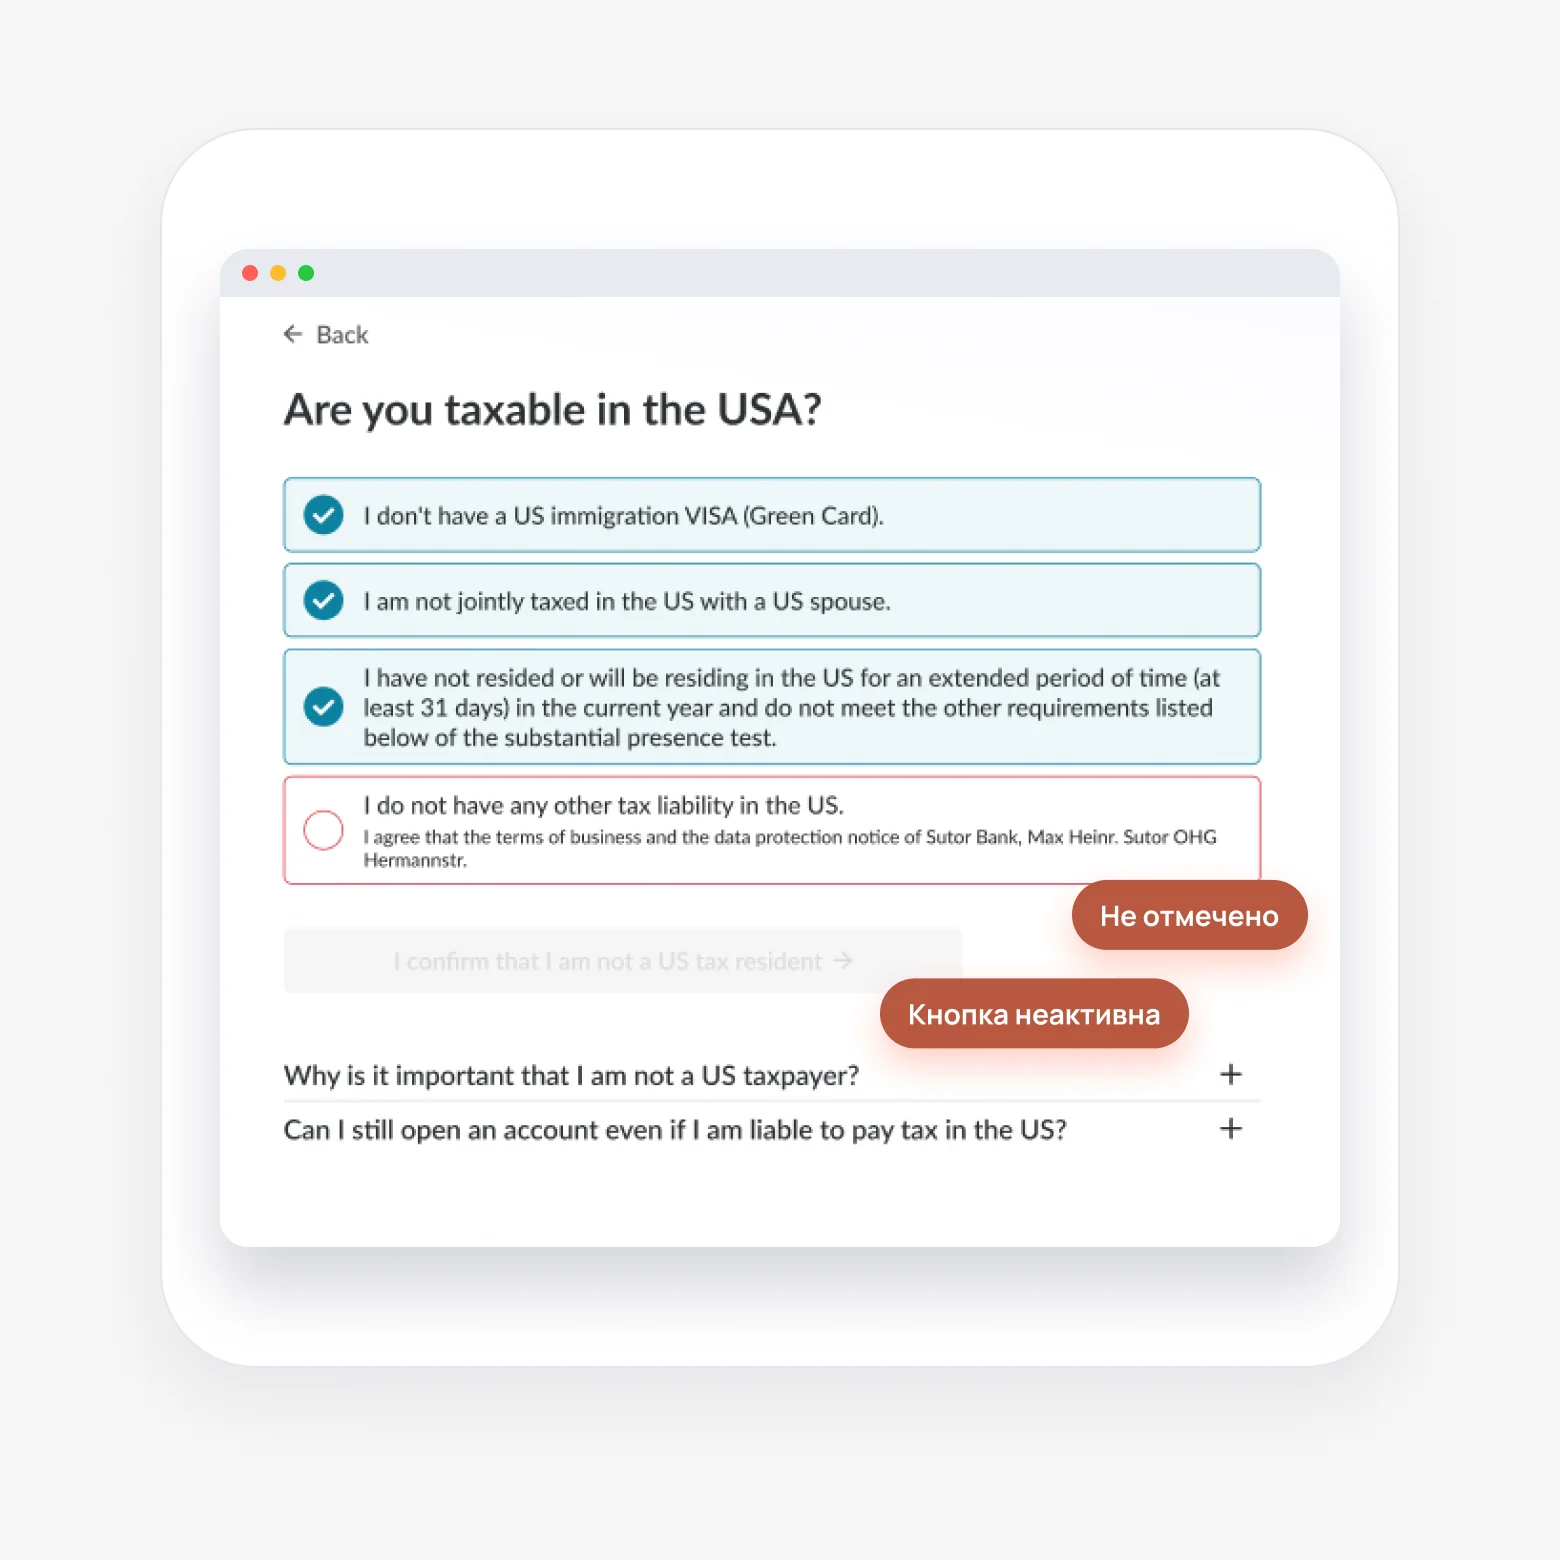
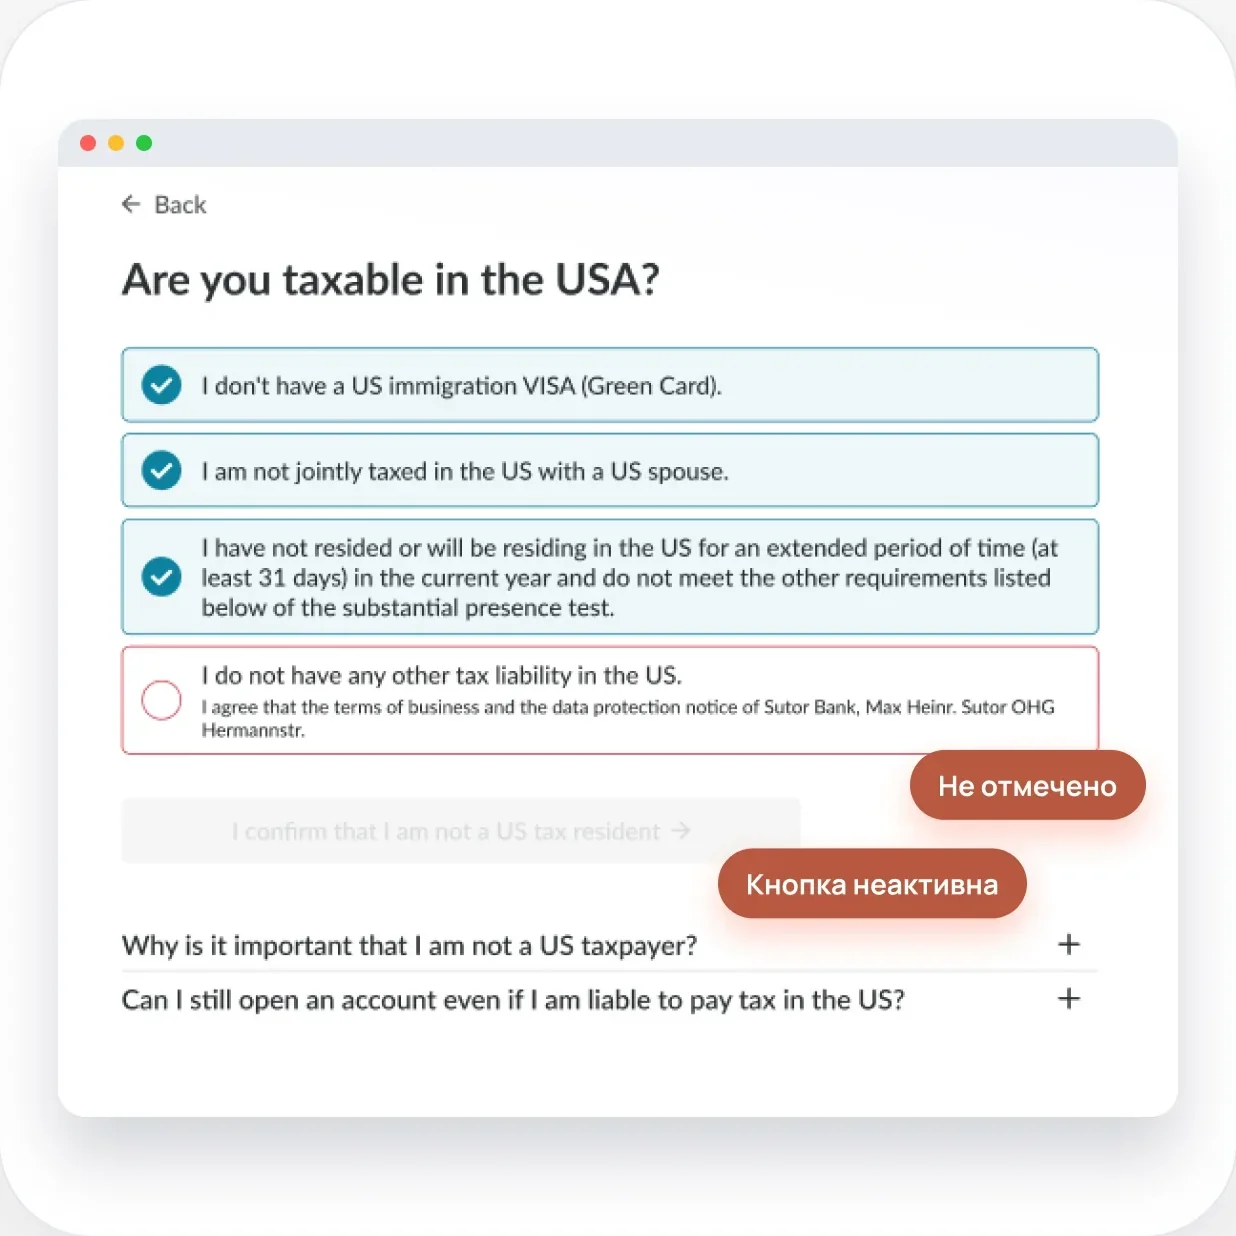
Онбординг: плотнее ветки, крупнее вход, градиенты из макета
- 03.3: ветки без лишних полей, отступ 24 px, фон раздела как в Figma
- 04.1: экран входа крупнее, без пустых полей, белый фон раздела
- 04.3: третий телефон в одном масштабе с остальными
- вернула градиенты: свечения на обложке и под лентой, тёмный бирюзовый
  градиент в «Финале флоу»; телефоны финала в масштабе макета
- лента: убрала ускорение от прокрутки, осталось ровное движение

Claude-Session: https://claude.ai/code/session_019zVkZb5G9ZcYn7sGzXFtcc

diff --git a/cases/onboarding.html b/cases/onboarding.html
@@ -334,21 +334,21 @@
       </div>
     </section>
 
-    <section>
+    <section style="background:#eef7f8">
       <div class="container">
         <span class="num">03.3</span>
         <h2>Ветки и <span class="mark">условия</span></h2>
         <p class="sub">Я описала, какой вопрос появляется после какого ответа. Главная развилка — доступ к паспорту. Без паспорта пользователь вводит данные вручную. С паспортом указывает только диапазон возраста: дальше он фотографирует паспорт в проверке личности Onfido, и дата рождения обновляется автоматически.</p>
         <img class="legend" src="../assets/img/legend.webp" width="1132" height="80" alt="Легенда: вопрос, ответ, результат, стоп, отложить" loading="lazy">
         <div class="branches">
-          <img src="../assets/img/br-sponsor.webp" width="984" height="758" alt="Ветка «Спонсор»: цель визы → Declaration of Commitment → данные спонсора" loading="lazy">
-          <div class="span-2 scroll-x scroll-x--branch"><img src="../assets/img/br-passport.webp" width="1800" height="758" alt="Развилка «Доступ к паспорту»: нет — пол, дата рождения, имя, место рождения, паспорт; да — только диапазон возраста, дальше Onfido" loading="lazy"></div>
-          <img src="../assets/img/br-second.webp" width="984" height="836" alt="Ветка «Второе гражданство»: есть второе гражданство? да → какое?" loading="lazy">
-          <img src="../assets/img/br-surname.webp" width="984" height="836" alt="Ветка «Фамилия»: семейное положение married, divorced или widowed → меняли фамилию? да → девичья фамилия" loading="lazy">
-          <img src="../assets/img/br-tax.webp" width="984" height="836" alt="Ветка «Налоги»: налоги в нескольких странах? да → в каких странах?" loading="lazy">
-          <img src="../assets/img/br-us.webp" width="984" height="720" alt="Ветка «Гражданство США»: гражданство США → стоп, счёт не открыть" loading="lazy">
-          <img src="../assets/img/br-ustax.webp" width="984" height="720" alt="Ветка «Налоги США»: 4 подтверждения, не все отмечены → стоп, счёт не открыть" loading="lazy">
-          <img src="../assets/img/br-later.webp" width="984" height="720" alt="Ветка «Можно отложить»: страховка, университет, посольство → Decide later → следующий шаг, вернуться позже" loading="lazy">
+          <img src="../assets/img/br-sponsor.webp" width="764" height="537" alt="Ветка «Спонсор»: цель визы → Declaration of Commitment → данные спонсора" loading="lazy">
+          <div class="span-2 scroll-x scroll-x--branch"><img src="../assets/img/br-passport.webp" width="1580" height="537" alt="Развилка «Доступ к паспорту»: нет — пол, дата рождения, имя, место рождения, паспорт; да — только диапазон возраста, дальше Onfido" loading="lazy"></div>
+          <img src="../assets/img/br-second.webp" width="764" height="614" alt="Ветка «Второе гражданство»: есть второе гражданство? да → какое?" loading="lazy">
+          <img src="../assets/img/br-surname.webp" width="764" height="614" alt="Ветка «Фамилия»: семейное положение married, divorced или widowed → меняли фамилию? да → девичья фамилия" loading="lazy">
+          <img src="../assets/img/br-tax.webp" width="764" height="614" alt="Ветка «Налоги»: налоги в нескольких странах? да → в каких странах?" loading="lazy">
+          <img src="../assets/img/br-us.webp" width="764" height="499" alt="Ветка «Гражданство США»: гражданство США → стоп, счёт не открыть" loading="lazy">
+          <img src="../assets/img/br-ustax.webp" width="764" height="499" alt="Ветка «Налоги США»: 4 подтверждения, не все отмечены → стоп, счёт не открыть" loading="lazy">
+          <img src="../assets/img/br-later.webp" width="764" height="499" alt="Ветка «Можно отложить»: страховка, университет, посольство → Decide later → следующий шаг, вернуться позже" loading="lazy">
         </div>
       </div>
     </section>
@@ -364,9 +364,9 @@
       </div>
     </section>
 
-    <section>
+    <section style="background:#fff">
       <div class="container split split--rev">
-        <img src="../assets/img/entry.webp" width="1602" height="1286" alt="Экран выбора продукта: Open a Blocked Account и Fintiba Companion" loading="lazy">
+        <img src="../assets/img/entry.webp" width="1280" height="963" alt="Экран выбора продукта: Open a Blocked Account и Fintiba Companion" loading="lazy">
         <div class="text">
           <span class="num">04.1</span>
           <h2>Вход в онбординг</h2>
@@ -386,7 +386,7 @@
           <p>Кнопка «I confirm that I am not a US tax resident» остаётся неактивной. Fintiba не открывает счета налоговым резидентам США, поэтому для них флоу здесь заканчивается. Этот шаг видят все пользователи.</p>
           <p>Под формой — FAQ: почему это важно и можно ли открыть счёт при налоговых обязательствах в США.</p>
         </div>
-        <div class="scroll-x scroll-x--branch"><img src="../assets/img/us-stop.webp" width="1560" height="1560" alt="Экран «Are you taxable in the USA?»: один пункт не отмечен, кнопка неактивна" loading="lazy"></div>
+        <div class="scroll-x scroll-x--branch"><img src="../assets/img/us-stop.webp" width="1236" height="1236" alt="Экран «Are you taxable in the USA?»: один пункт не отмечен, кнопка неактивна" loading="lazy"></div>
       </div>
     </section>
 
@@ -399,8 +399,8 @@
           <div class="phones phones--4">
             <figure><img src="../assets/img/mob-1.webp" width="876" height="1472" alt="Экран семейного положения в приложении" loading="lazy"><figcaption><strong>Семейное положение</strong>Один вариант из списка</figcaption></figure>
             <figure><img src="../assets/img/mob-2.webp" width="876" height="1472" alt="Экран вопроса о налогах в нескольких странах" loading="lazy"><figcaption><strong>Налоги</strong>Вопрос «да / нет» с подсказками</figcaption></figure>
-            <figure><img src="../assets/img/mob-3.webp" width="962" height="1472" alt="Экран адреса с автоподсказкой" loading="lazy"><figcaption><strong>Адрес</strong>Автоподсказка, затем подробный экран с индексом</figcaption></figure>
-            <figure><img src="../assets/img/mob-4.webp" width="882" height="1472" alt="Экран выбора тарифа страховки карточками" loading="lazy"><figcaption><strong>Страховка</strong>Выбор тарифа карточками</figcaption></figure>
+            <figure><img class="wide-3" src="../assets/img/mob-3.webp" width="962" height="1472" alt="Экран адреса с автоподсказкой" loading="lazy"><figcaption><strong>Адрес</strong>Автоподсказка, затем подробный экран с индексом</figcaption></figure>
+            <figure><img class="wide-4" src="../assets/img/mob-4.webp" width="882" height="1472" alt="Экран выбора тарифа страховки карточками" loading="lazy"><figcaption><strong>Страховка</strong>Выбор тарифа карточками</figcaption></figure>
           </div>
         </div>
         <p class="swipe-hint phones-hint">Листайте экраны вбок →</p>
@@ -412,7 +412,7 @@
         <span class="num">04.4</span>
         <h2>Финал флоу</h2>
         <p class="sub">После последнего вопроса анкета заканчивается. Пользователь видит экран подготовки счёта, затем список следующих шагов: подтвердить личность, внести сумму, скачать документы для визы.</p>
-        <div class="phones-band">
+        <div class="phones-band phones-band--teal">
           <div class="phones phones--2">
             <figure><img src="../assets/img/final-1.webp" width="1080" height="1856" alt="Экран подготовки аккаунта" loading="lazy"><figcaption><strong>Подготовка аккаунта</strong>Экран ожидания объясняет, что происходит и что будет дальше<span class="small">Анимация на экране 1 — работа другого дизайнера.</span></figcaption></figure>
             <figure><img src="../assets/img/final-2.webp" width="1080" height="1856" alt="Итоговый экран со списком следующих шагов" loading="lazy"><figcaption><strong>Итог онбординга</strong>Список следующих шагов: подтвердить личность, внести сумму, скачать документы</figcaption></figure>

diff --git a/assets/css/site.css b/assets/css/site.css
@@ -235,8 +235,8 @@ figcaption { font-size: 15px; color: var(--l-slate); margin-top: 12px; }
 
 /* бегущая лента экранов */
 .marquee { position: relative; margin-top: 56px; padding: 10px 0 40px; overflow: hidden; }
-.marquee::before { content: ""; position: absolute; left: -5%; right: -5%; bottom: 0; height: 62%;
-  background: radial-gradient(ellipse at center, rgba(42, 165, 180, .22) 0%, rgba(42, 165, 180, 0) 70%); pointer-events: none; }
+.marquee::before { content: ""; position: absolute; left: 2%; right: 2%; bottom: 0; height: 55%; border-radius: 50%;
+  background: rgba(95, 211, 198, .35); filter: blur(70px); pointer-events: none; }
 .marquee__track { display: flex; width: max-content; position: relative; will-change: transform; }
 .marquee__group { display: flex; align-items: flex-start; }
 .marquee__group img { width: 236px; height: auto; flex: none; margin-right: -42px; }
@@ -376,24 +376,38 @@ figcaption { font-size: 15px; color: var(--l-slate); margin-top: 12px; }
 
 /* ветки */
 .legend { margin-top: 26px; width: 100%; max-width: 566px; }
-.branches { display: grid; grid-template-columns: repeat(3, minmax(0, 1fr)); gap: 0 0; margin-top: 8px; margin-inline: -12px; }
-.branches img { width: 100%; margin-block: -8px; }
+.branches { display: grid; grid-template-columns: repeat(3, minmax(0, 1fr)); gap: 24px; margin-top: 28px; align-items: start; }
+.branches img { width: 100%; border-radius: 24px; box-shadow: 0 12px 30px rgba(11, 16, 48, .06); }
 .branches .span-2 { grid-column: span 2; }
 
 /* вход / сша */
 .split { display: grid; grid-template-columns: minmax(0, 1fr) minmax(0, 1fr); gap: 60px; align-items: center; }
-.split--rev { grid-template-columns: minmax(0, 1fr) minmax(0, 1.1fr); }
+.split--rev { grid-template-columns: minmax(0, 1.45fr) minmax(0, 1fr); }
 .split h2 { margin-bottom: 22px; }
 .split p { font-size: 19px; margin-top: 16px; }
 .split h3 { font-size: 20px; margin-top: 30px; color: var(--l-navy); }
 
+/* картинки без встроенных полей: тень и скругление задаются кодом */
+img[src$="entry.webp"] { border-radius: 16px; box-shadow: 0 28px 60px rgba(11, 16, 48, .14); }
+img[src$="us-stop.webp"] { border-radius: 40px; box-shadow: 0 24px 60px rgba(11, 16, 48, .08); }
+
+/* обложка и лента: мягкие бирюзовые свечения из макета */
+.case-hero { overflow: hidden; }
+.case-hero::before, .case-hero::after { content: ""; position: absolute; border-radius: 50%; pointer-events: none; filter: blur(90px); z-index: 0; }
+.case-hero::before { width: 800px; height: 600px; right: -200px; top: -250px; background: rgba(95, 211, 198, .35); }
+.case-hero::after { width: 700px; height: 500px; left: -300px; top: 150px; background: rgba(14, 143, 168, .12); }
+.case-hero .container { position: relative; z-index: 1; }
+
 /* телефоны */
 .phones-band { position: relative; margin-top: 60px; }
-.phones-band::before { content: ""; position: absolute; left: -50px; right: -50px; top: 26%; bottom: 14%; border-radius: 40px; background: linear-gradient(135deg, #e3f1f3, #d4ecef); z-index: 0; }
+.phones-band::before { content: ""; position: absolute; left: -50px; right: -50px; top: 26%; bottom: 120px; border-radius: 40px; background: linear-gradient(135deg, #e3f1f3, #d4ecef); z-index: 0; }
 .phones { position: relative; z-index: 1; display: grid; gap: 24px; }
 .phones--4 { grid-template-columns: repeat(4, minmax(0, 1fr)); }
-.phones--2 { grid-template-columns: minmax(0, 1fr) minmax(0, 1fr); max-width: 640px; margin: 0 auto; }
+.phones--2 { grid-template-columns: minmax(0, 1fr) minmax(0, 1fr); max-width: 820px; margin: 0 auto; }
 .phones figure img { width: 100%; aspect-ratio: 876 / 1472; object-fit: contain; object-position: center bottom; }
+.phones figure img.wide-3 { width: calc(100% * 962 / 876); max-width: none; aspect-ratio: auto; }
+.phones figure img.wide-4 { width: calc(100% * 882 / 876); max-width: none; aspect-ratio: auto; }
+.phones-band--teal::before { background: linear-gradient(90deg, #0a5a73 0%, #0e8fa8 50%, #7fd9cf 100%) !important; }
 .phones--2 figure img { aspect-ratio: 1080 / 1856; }
 .phones figcaption strong { display: block; font-size: 19px; color: var(--l-navy); margin-bottom: 4px; font-weight: 700; }
 .phones figcaption { font-size: 16px; padding: 0 16px; }
@@ -500,7 +514,7 @@ figcaption { font-size: 15px; color: var(--l-slate); margin-top: 12px; }
   .pair .after { grid-template-columns: minmax(0, 1fr); }
   .pair .after img { width: 100%; max-width: 320px; }
   .annotations { grid-template-columns: minmax(0, 1fr) minmax(0, 1fr); }
-  .branches { grid-template-columns: minmax(0, 1fr); margin-inline: -8px; }
+  .branches { grid-template-columns: minmax(0, 1fr); gap: 16px; }
   .branches .span-2 { grid-column: auto; }
   .split, .split--rev { grid-template-columns: minmax(0, 1fr); gap: 28px; }
   .split--rev .text { order: -1; }

diff --git a/assets/js/marquee.js b/assets/js/marquee.js
@@ -6,7 +6,7 @@
     if (!track || reduce.matches) return;
     var auto = 0, last = performance.now(), half = 0, visible = true;
     var SPEED = 28;          // px в секунду
-    var SCROLL_FACTOR = 0.6; // насколько лента сдвигается от прокрутки
+    var SCROLL_FACTOR = 0;   // прокрутка страницы на ленту не влияет
     function measure() { half = track.scrollWidth / 2; }
     measure();
     window.addEventListener('resize', measure);
